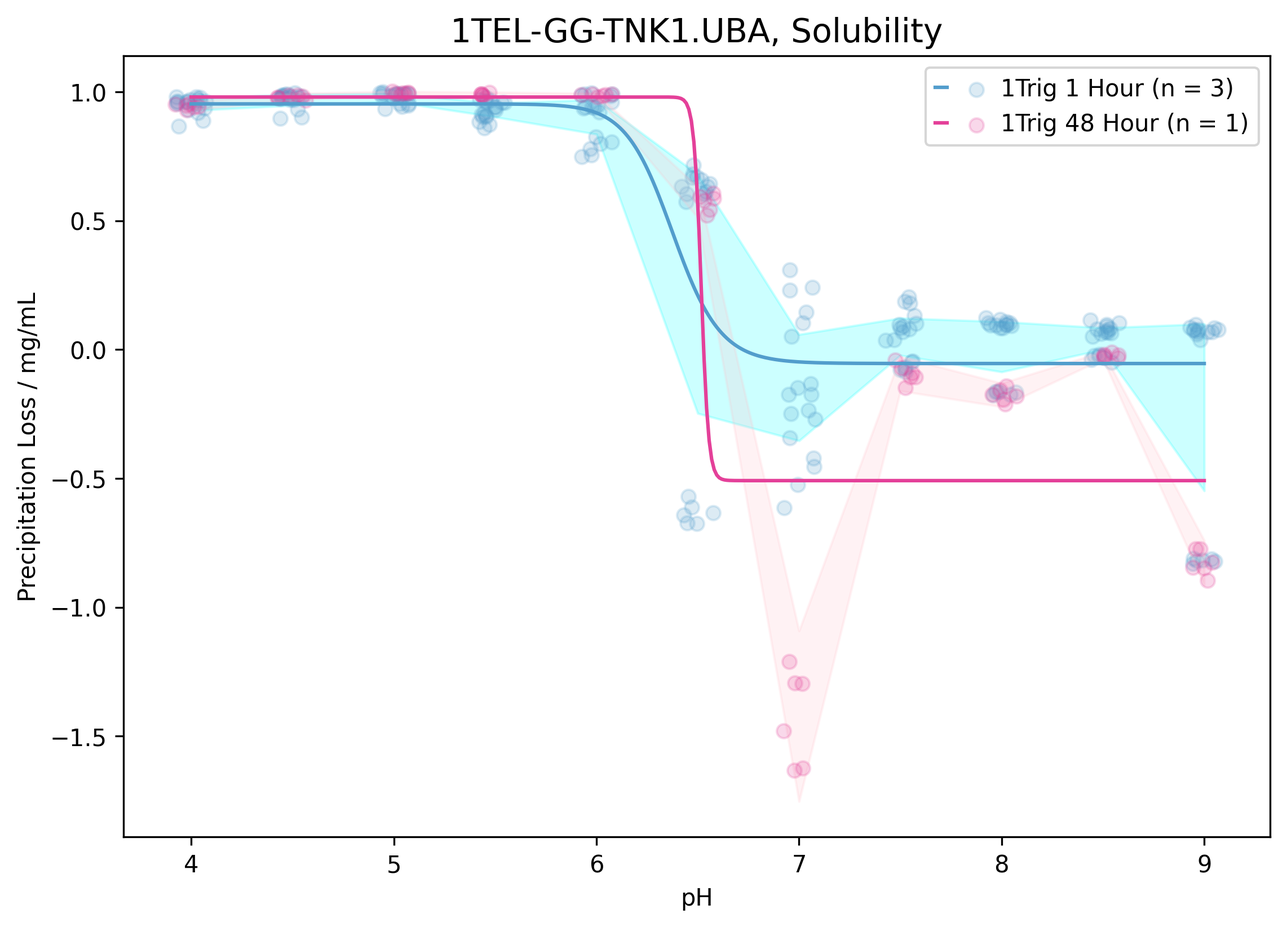
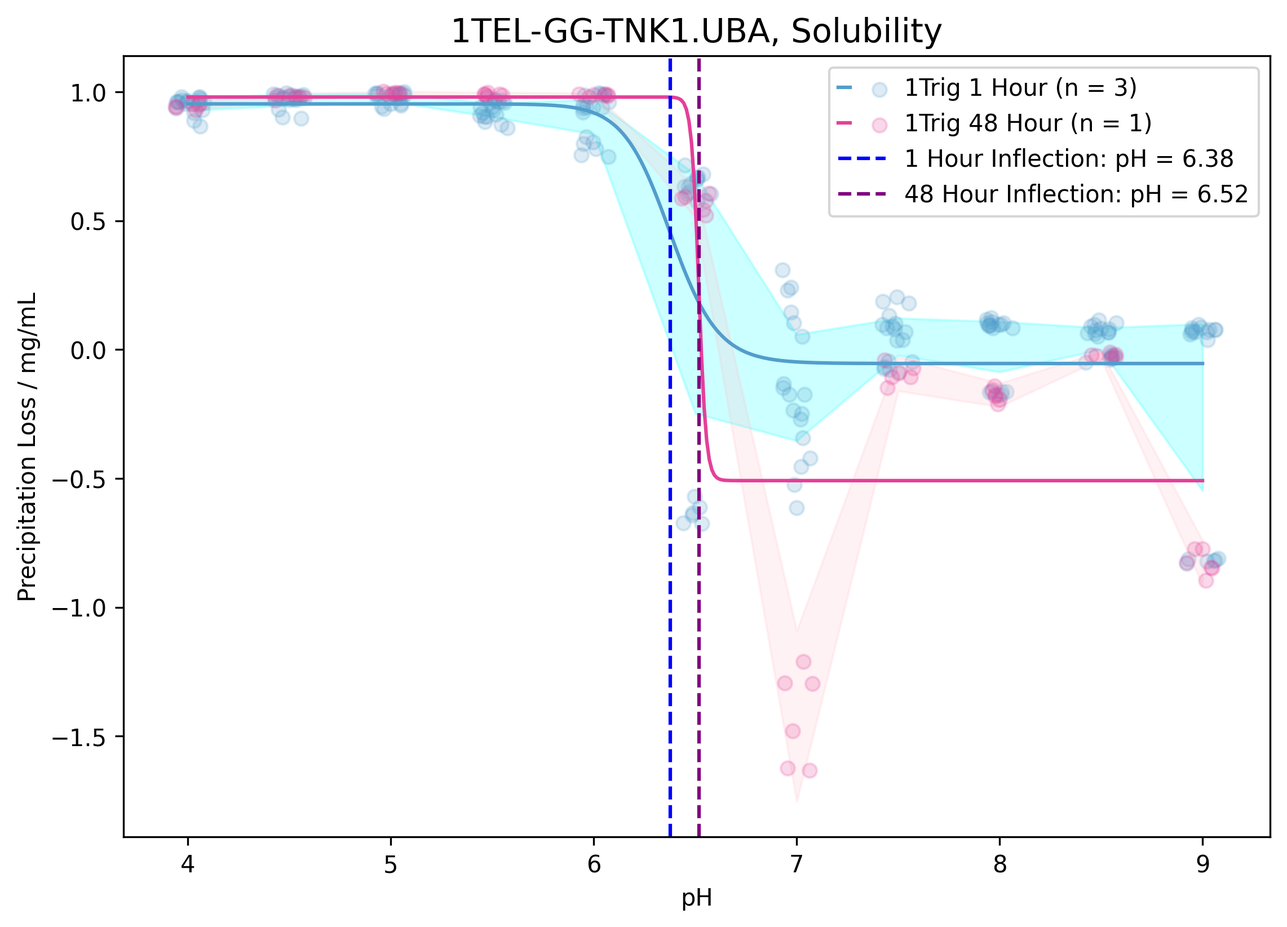
Made lots of changes such omitting some data for curve fitting, plotting asterisks near omitted data, including inflection point lines for every graph, and othe minor asthetic changes.

diff --git a/process.py b/process.py
@@ -25,7 +25,6 @@ with open('data.csv',newline="") as csvfile:
             protein_dict[protein_construct] = {}
         if row['Date']+"_"+row['Stock Concentration mg/mL']+'_mg/mL_pH_'+row['pH'] not in protein_dict[protein_construct]:
             protein_dict[protein_construct][row['Date']+"_"+row['Stock Concentration mg/mL']+'_mg/mL_pH_'+row['pH']] = {'A400':[],'A280_1hr':[],'A280_48-72hr':[]}
-
         if row['A400']!="":
             if '*' in row['A400']:
                 protein_dict[protein_construct][row['Date']+"_"+row['Stock Concentration mg/mL']+'_mg/mL_pH_'+row['pH']]['A400'].append((row['A400']))
@@ -94,19 +93,24 @@ def format_legend_label(construct, test_name, protein_constructs, tests, n):
     # Case 1: 1Trig vs 2Trig
     if len(protein_constructs) == 2 and len(tests) == 1:
         if is_vwa and any("Gravity" in c for c in protein_constructs):
-            label = "Gravity" if is_gravity else "ÄKTA"
+            base_label = "Gravity" if is_gravity else "ÄKTA"
+
+            if test_name == "A280_1hr":
+                label = f"{base_label} 1 Hour"
+            elif test_name == "A280_48-72hr":
+                label = f"{base_label} 48 Hour"
+            else:
+                label = base_label
+
         else:
             label = "2Trig" if is_2trig else "1Trig"
-
     # Case 2: 1 hr vs 48 hr
     elif len(protein_constructs) == 1 and has_1hr and has_48hr:
         trig_label = "2Trig" if is_2trig else "1Trig"
         time_label = "1 Hour" if test_name == "A280_1hr" else "48 Hour"
         label = f"{trig_label} {time_label}"
-
     else:
         label = construct
-
     return f"{label} (n = {n})"
 
 def statisticize(proteins_and_tests:list,plot_singly=False,plot=False,tailored=False,pool=False):
@@ -117,7 +121,7 @@ def statisticize(proteins_and_tests:list,plot_singly=False,plot=False,tailored=F
     'tests' are the types of tests you performed, referred to by the variable being measured, or the column name in the csv. Ie.: 'A400', 'A280_1hr'    
     """
     #The first half of this function is just a filter pulling applicable data from the protein_dict dictionary.
-    data = {'protein construct':[],'date':[],'pH':[],'test':[],'data':[],'tailored_data':[]}
+    data = {'protein construct':[],'date':[],'pH':[],'test':[],'data':[],'tailored_data':[], 'is_starred':[]}
     protein_constructs = []
     tests = []
     for protein_construct,test in proteins_and_tests:
@@ -152,19 +156,21 @@ def statisticize(proteins_and_tests:list,plot_singly=False,plot=False,tailored=F
                     if type(replicate)==float:
                         if test in ['A280_1hr','A280_48-72hr']:
                             #For precipitation assays, find the amount of protein left as a percentage.
-                            data['tailored_data'].append((theoretical_max_concentration-replicate)/theoretical_max_concentration)
-                            data['data'].append((theoretical_max_concentration-replicate)/theoretical_max_concentration)
+                            value = (theoretical_max_concentration-replicate)/theoretical_max_concentration
                         else:
-                            data['tailored_data'].append(replicate/theoretical_max_concentration)
-                            data['data'].append(replicate/theoretical_max_concentration)
+                            value = replicate/theoretical_max_concentration
+                        data['tailored_data'].append(value)
+                        data['data'].append(value)
+                        data['is_starred'].append(False)
                     else:
                         if test in ['A280_1hr','A280_48-72hr']:
                             #For precipitation assays, find the amount of protein left as a percentage.
-                            data['data'].append((theoretical_max_concentration-float(replicate.strip("*")))/theoretical_max_concentration)
-                            data['tailored_data'].append('')
+                            value = (theoretical_max_concentration-float(replicate.strip("*")))/theoretical_max_concentration
                         else:
-                            data['data'].append(float(replicate.strip("*"))/theoretical_max_concentration)
-                            data['tailored_data'].append('')
+                            value = float(replicate.strip("*"))/theoretical_max_concentration
+                        data['data'].append(value)
+                        data['tailored_data'].append(value)   # keep numeric
+                        data['is_starred'].append(True)
 
     #--------------------Now that the main filtering is done, it's time to make confidence intervals and fit curves for each set of construct:pH values---------------#
 
@@ -188,11 +194,14 @@ def statisticize(proteins_and_tests:list,plot_singly=False,plot=False,tailored=F
         measurement = data[data_quality][replicate]
         if construct_key not in constructs_by_pH_by_date:
             constructs_by_pH_by_date[construct_key] = {}
+        is_starred = data['is_starred'][replicate]
         if pH not in constructs_by_pH_by_date[construct_key]:
-            constructs_by_pH_by_date[construct_key][pH] = {"dates": {}}
+            constructs_by_pH_by_date[construct_key][pH] = {"dates": {}, "dates_starred": {}}
         if date not in constructs_by_pH_by_date[construct_key][pH]["dates"]:
             constructs_by_pH_by_date[construct_key][pH]["dates"][date] = []
+            constructs_by_pH_by_date[construct_key][pH]["dates_starred"][date] = []
         constructs_by_pH_by_date[construct_key][pH]["dates"][date].append(measurement)
+        constructs_by_pH_by_date[construct_key][pH]["dates_starred"][date].append(is_starred)
 
     biological_n_by_construct = {}
 
@@ -208,21 +217,27 @@ def statisticize(proteins_and_tests:list,plot_singly=False,plot=False,tailored=F
     for construct in constructs_by_pH_by_date:
         for pH in constructs_by_pH_by_date[construct]:
             # Eli Note: The line below gives back a list of lists. Each outer list is a biological replicate and each inner list includes the measurements from the nanodrop for that biological replicate.
-            pH_replicates = list(constructs_by_pH_by_date[construct][pH]["dates"].values())
+            pH_dates = constructs_by_pH_by_date[construct][pH]["dates"]
+            pH_starred = constructs_by_pH_by_date[construct][pH]["dates_starred"]
             if pool:
                 weighted_variances = 0.0
                 pooled_df = 0
             all_drops_at_current_pH = []
-            for drops in pH_replicates:
-                print(f'drops:{drops}')
-                #Turn all the drop replicates into numpy floats.
+            for date_key in pH_dates:
+                drops = pH_dates[date_key]
+                star_flags = pH_starred[date_key]
+                if tailored:
+                    drops = [d for d, s in zip(drops, star_flags) if not s]
+                if len(drops) == 0:
+                    continue
                 drops = np.array(drops, dtype=float)
-                #Put all the drop replicates into the combined measurements list
                 all_drops_at_current_pH.extend(drops)
                 if pool:
                     sd_of_drops = np.std(drops, ddof=1)
-                    weighted_variances += ((len(drops) - 1)*(sd_of_drops**2)) 
+                    weighted_variances += ((len(drops) - 1)*(sd_of_drops**2))
                     pooled_df += (len(drops) - 1)
+            if len(all_drops_at_current_pH) == 0:
+                continue
             N_replicates = len(all_drops_at_current_pH)
             if pool:
                 pooled_sd = np.sqrt(weighted_variances/pooled_df)
@@ -306,9 +321,12 @@ def statisticize(proteins_and_tests:list,plot_singly=False,plot=False,tailored=F
             return color_map
         color_map = change_colors()
 
-        inflection_points_1trig = []
-        inflection_points_2trig = []
-        inflection_points_Gravity = []
+        inflection_points_1trig_1hr = []
+        inflection_points_1trig_48hr = []
+        inflection_points_2trig_1hr = []
+        inflection_points_2trig_48hr = []
+        inflection_points_gravity = []
+        any_starred_points = False
 
         for construct_key in constructs_by_pH_by_date:
             construct, test_name = construct_key
@@ -318,38 +336,45 @@ def statisticize(proteins_and_tests:list,plot_singly=False,plot=False,tailored=F
             ci_upper_bounds = []
             construct_pHs =[]
             construct_data = []
+            construct_starred = []
             # sort pHs numerically
             sorted_pHs = sorted(constructs_by_pH_by_date[construct_key].keys(), key=float)
             for pH in sorted_pHs:
                 pH_entry = constructs_by_pH_by_date[construct_key][pH]
+                # Always keep raw points for plotting
+                for date, measurements in pH_entry["dates"].items():
+                    star_flags = pH_entry["dates_starred"][date]
+                    for measurement, is_starred in zip(measurements, star_flags):
+                        construct_pHs.append(float(pH))
+                        construct_data.append(measurement)
+                        construct_starred.append(is_starred)
+                # Only use pHs with computed statistics for fitting / CI bands
+                if "mean" not in pH_entry:
+                    continue
                 pH_values.append(float(pH))
                 means.append(pH_entry["mean"])
                 ci_lower_bounds.append(pH_entry["CI_lower"])
                 ci_upper_bounds.append(pH_entry["CI_upper"])
-                # raw measurements for scatter plotting
-                for date, measurements in pH_entry["dates"].items():
-                    for measurement in measurements:
-                        construct_pHs.append(float(pH))
-                        construct_data.append(measurement)
 
             try:
                 pH_linspace = np.linspace(min(pH_values),max(pH_values),400)
                 initial_guesses = [max(means),-4,5.5,min(means)]
                 #The returned values from the curve_fit match the order of those passed in as initial guesses, namely: [max,slope,inflection point,min]
                 best_fit_parameters,covariance_matrix = curve_fit(pH_to_absorbance_model_4pl,pH_values,means,p0=initial_guesses)
-
-                if "2Trig" in construct and best_fit_parameters[2] > 4.0:
-                    inflection_points_2trig.append(best_fit_parameters[2])
-                elif "2Trig" in construct and best_fit_parameters[2] < 4.0:
-                    inflection_points_2trig.append(float(4.0))
-                elif not "2Trig" in construct and "Gravity" not in construct and best_fit_parameters[2] < 4.0:
-                    inflection_points_1trig.append(float(4.0))
-                elif "Gravity" in construct and best_fit_parameters[2] > 4:
-                    inflection_points_Gravity.append(best_fit_parameters[2])
-                elif "Gravity" in construct and best_fit_parameters[2] < 4:
-                    inflection_points_Gravity.append(float(4.0))
+                print(best_fit_parameters)
+                inflection_value = best_fit_parameters[2] if best_fit_parameters[2] >= 4.0 else 4.0
+                if "Gravity" in construct:
+                    inflection_points_gravity.append(inflection_value)
+                elif "2Trig" in construct:
+                    if test_name == "A280_48-72hr":
+                        inflection_points_2trig_48hr.append(inflection_value)
+                    else:
+                        inflection_points_2trig_1hr.append(inflection_value)
                 else:
-                    inflection_points_1trig.append(best_fit_parameters[2])
+                    if test_name == "A280_48-72hr":
+                        inflection_points_1trig_48hr.append(inflection_value)
+                    else:
+                        inflection_points_1trig_1hr.append(inflection_value)
 
                 ###-------------------------------###
                 #To plot the fitted curve:
@@ -382,6 +407,13 @@ def statisticize(proteins_and_tests:list,plot_singly=False,plot=False,tailored=F
                     scatter_handle = plt.scatter(jittered_pHs,construct_data,marker="^", color=color_map[construct_key], alpha=0.2)
                 else:
                     scatter_handle = plt.scatter(jittered_pHs,construct_data, color=color_map[construct_key], alpha=0.2)
+                # Plot asterisks for omitted (starred) data
+                starred_jittered_pHs = [x for x, s in zip(jittered_pHs, construct_starred) if s]
+                starred_data = [y for y, s in zip(construct_data, construct_starred) if s]
+                if len(starred_data) > 0:
+                    for x, y in zip(starred_jittered_pHs, starred_data):
+                        plt.annotate("*",(x, y),xytext=(0.005, 0.00000005),textcoords="offset points",ha="left",va="bottom",color="black",fontsize=11,fontweight="light",zorder=6)
+                    any_starred_points = True
 
                 # mean points with Bonferroni error bars
                 #plt.errorbar(x=pH_values,y=means, yerr=[np.array(means) - np.array(ci_lower_bounds), np.array(ci_upper_bounds) - np.array(means)], fmt='none', ecolor=color_map[construct], capsize=4, alpha=0.9)
@@ -394,7 +426,6 @@ def statisticize(proteins_and_tests:list,plot_singly=False,plot=False,tailored=F
                     if len(inflection_points_2trig)>0:
                         inflection_2 = plt.axvline(inflection_points_2trig[-1],color="red",linestyle="--")
                         handles_and_labels[inflection_2] = f"Inflection point: pH = {inflection_points_2trig[-1].round(2)}"
-                
                 legend_label = format_legend_label(construct,test_name,protein_constructs,tests,biological_n_by_construct[construct_key])
                 handles_and_labels[(line_handle, scatter_handle)] = legend_label
 
@@ -402,12 +433,16 @@ def statisticize(proteins_and_tests:list,plot_singly=False,plot=False,tailored=F
                 print(f'The curve fit for {construct} failed due to: {e}. Plotting points instead of fitted curve...')
                 construct_pHs = []
                 construct_data = []
+                construct_starred = []
                 sorted_pHs = sorted(constructs_by_pH_by_date[construct_key].keys(), key=float)
                 for pH in sorted_pHs:
-                    for date, measurements in constructs_by_pH_by_date[construct_key][pH]["dates"].items():
-                        for measurement in measurements:
+                    pH_entry = constructs_by_pH_by_date[construct_key][pH]
+                    for date, measurements in pH_entry["dates"].items():
+                        star_flags = pH_entry["dates_starred"][date]
+                        for measurement, is_starred in zip(measurements, star_flags):
                             construct_pHs.append(float(pH))
                             construct_data.append(measurement)
+                            construct_starred.append(is_starred)
                 if "Gravity" in construct:
                     plt.fill_between(pH_values, ci_lower_bounds, ci_upper_bounds, color='lime', alpha=0.20)
                 elif test_name == "A280_48-72hr" and "2Trig" not in construct:
@@ -426,6 +461,12 @@ def statisticize(proteins_and_tests:list,plot_singly=False,plot=False,tailored=F
                     scatter_handle = plt.scatter(jittered_pHs,construct_data,marker="^", color=color_map[construct_key], alpha=0.2)
                 else:
                     scatter_handle = plt.scatter(jittered_pHs,construct_data, color=color_map[construct_key], alpha=0.2)
+                starred_jittered_pHs = [x for x, s in zip(jittered_pHs, construct_starred) if s]
+                starred_data = [y for y, s in zip(construct_data, construct_starred) if s]
+                if len(starred_data) > 0:
+                    for x, y in zip(starred_jittered_pHs, starred_data):
+                        plt.annotate("*",(x, y),xytext=(0.005, 0.00000005),textcoords="offset points",ha="left",va="bottom",color="black",fontsize=11,fontweight="light",zorder=6)
+                    any_starred_points = True
                 legend_label = format_legend_label(construct,test_name,protein_constructs,tests,biological_n_by_construct[construct_key])
                 handles_and_labels[scatter_handle] = legend_label
 
@@ -447,39 +488,65 @@ def statisticize(proteins_and_tests:list,plot_singly=False,plot=False,tailored=F
                 handles_and_labels = {}
 
         if not plot_singly:
-            if not (len(protein_constructs) == 1 and ("A280_1hr" in tests and "A280_48-72hr" in tests)):
-                if len(inflection_points_1trig)>1:
-                    single_trigger_inflection_point = np.mean(inflection_points_1trig)
+            is_gravity_comparison = (len(protein_constructs) == 2 and len(tests) == 1 and any("Gravity" in construct for construct in protein_constructs))
+            is_time_comparison = (len(protein_constructs) == 1 and "A280_1hr" in tests and "A280_48-72hr" in tests)
+            if is_time_comparison:
+                if "2Trig" in protein_constructs[0]:
+                    if len(inflection_points_2trig_1hr) >= 1:
+                        inflection_1hr = plt.axvline(np.mean(inflection_points_2trig_1hr), color="darkorange", linestyle="--")
+                        handles_and_labels[inflection_1hr] = f"1 Hour Inflection: pH = {np.mean(inflection_points_2trig_1hr):.2f}"
+                    if len(inflection_points_2trig_48hr) >= 1:
+                        inflection_48hr = plt.axvline(np.mean(inflection_points_2trig_48hr), color="indigo", linestyle="--")
+                        handles_and_labels[inflection_48hr] = f"48 Hour Inflection: pH = {np.mean(inflection_points_2trig_48hr):.2f}"
+                else:
+                    if len(inflection_points_1trig_1hr) >= 1:
+                        inflection_1hr = plt.axvline(np.mean(inflection_points_1trig_1hr), color="blue", linestyle="--")
+                        handles_and_labels[inflection_1hr] = f"1 Hour Inflection: pH = {np.mean(inflection_points_1trig_1hr):.2f}"
+                    if len(inflection_points_1trig_48hr) >= 1:
+                        inflection_48hr = plt.axvline(np.mean(inflection_points_1trig_48hr), color="purple", linestyle="--")
+                        handles_and_labels[inflection_48hr] = f"48 Hour Inflection: pH = {np.mean(inflection_points_1trig_48hr):.2f}"
+            elif is_gravity_comparison:
+                # non-gravity line
+                if "A400" in tests:
+                    nongravity_points = inflection_points_1trig_1hr
+                    nongravity_color = "blue"
+                    nongravity_label = "ÄKTA Inflection"
+                elif "A280_48-72hr" in tests:
+                    nongravity_points = inflection_points_1trig_48hr
+                    nongravity_color = "purple"
+                    nongravity_label = "ÄKTA 48 Hour Inflection"
+                elif "A280_1hr" in tests:
+                    nongravity_points = inflection_points_1trig_1hr
+                    nongravity_color = "blue"
+                    nongravity_label = "ÄKTA 1 Hour Inflection"
+                if len(nongravity_points) >= 1:
+                    inflection_ng = plt.axvline(np.mean(nongravity_points), color=nongravity_color, linestyle="--")
+                    handles_and_labels[inflection_ng] = f"{nongravity_label}: pH = {np.mean(nongravity_points):.2f}"
+
+                if len(inflection_points_gravity) >= 1:
+                    inflection_g = plt.axvline(np.mean(inflection_points_gravity), color="green", linestyle="--")
+                    if "A400" in tests:
+                        handles_and_labels[inflection_g] = f"Gravity Inflection: pH = {np.mean(inflection_points_gravity):.2f}"
+                    elif "A280_48-72hr" in tests:
+                        handles_and_labels[inflection_g] = f"Gravity 48 Hour Inflection: pH = {np.mean(inflection_points_gravity):.2f}"
+                    elif "A280_1hr" in tests:
+                        handles_and_labels[inflection_g] = f"Gravity 1 Hour Inflection: pH = {np.mean(inflection_points_gravity):.2f}"
+            else:
+                # standard 1Trig vs 2Trig comparison
+                if len(inflection_points_1trig_1hr) >= 1:
                     if "A280_48-72hr" in tests:
-                        inflection_color = 'purple'
+                        color_1trig = "purple"
                     else:
-                        inflection_color = 'blue' 
-                    inflection_1 = plt.axvline(single_trigger_inflection_point,color=inflection_color,linestyle="--")
-                    handles_and_labels[inflection_1] = f"Inflection point: pH ={single_trigger_inflection_point:.2f}"
-                elif len(inflection_points_1trig)==1:
+                        color_1trig = "blue"
+                    inflection_1 = plt.axvline(np.mean(inflection_points_1trig_1hr), color=color_1trig, linestyle="--")
+                    handles_and_labels[inflection_1] = f"1Trig Inflection: pH = {np.mean(inflection_points_1trig_1hr):.2f}"
+                if len(inflection_points_2trig_1hr) >= 1:
                     if "A280_48-72hr" in tests:
-                        inflection_color = "purple"
+                        color_2trig = "indigo"
                     else:
-                        inflection_color = "blue"
-                    inflection_1 = plt.axvline(inflection_points_1trig[0],color=inflection_color,linestyle="--")
-                    handles_and_labels[inflection_1] = f"Inflection point: pH = {np.float64(inflection_points_1trig[0]):.2f}"
-
-                if len(inflection_points_Gravity) > 1:
-                    gravity_inflection_point = np.mean(inflection_points_Gravity)
-                    inflection_g = plt.axvline(gravity_inflection_point, color='green', linestyle='--')
-                    handles_and_labels[inflection_g] = f"Inflection point: pH = {gravity_inflection_point:.2f}"
-                elif len(inflection_points_Gravity) == 1:
-                    inflection_g = plt.axvline(inflection_points_Gravity[0], color="green", linestyle="--")
-                    handles_and_labels[inflection_g] = f"Inflection point: pH = {np.float64(inflection_points_Gravity[0]):.2f}"
-
-                if len(inflection_points_2trig)>1:
-                    double_trigger_inflection_point = np.mean(inflection_points_2trig)
-                    inflection_2 = plt.axvline(double_trigger_inflection_point,color="red",linestyle="--")
-                    handles_and_labels[inflection_2] = f"Inflection point: ph = {double_trigger_inflection_point:.2f}"
-                elif len(inflection_points_2trig)==1:
-                    inflection_2 = plt.axvline(inflection_points_2trig[0],color='red',linestyle="--")
-                    handles_and_labels[inflection_2] = f"Inflection point: pH = {np.float64(inflection_points_2trig[0]):.2f}"        
-
+                        color_2trig = "red"
+                    inflection_2 = plt.axvline(np.mean(inflection_points_2trig_1hr), color=color_2trig, linestyle="--")
+                    handles_and_labels[inflection_2] = f"2Trig Inflection: pH = {np.mean(inflection_points_2trig_1hr):.2f}" 
             if "A400" == tests[0]:
                 y_axis = 'Absorbance'
                 assay = 'Turbidity'
@@ -503,7 +570,10 @@ def statisticize(proteins_and_tests:list,plot_singly=False,plot=False,tailored=F
                     plt.title(f"{protein_title}, {assay}", fontsize = 14)
                     plt.ylabel(y_axis)
                     plt.xlabel("pH")
-
+            # add asterisk legend entry LAST so it appears on bottom row
+            if any_starred_points:
+                    asterisk_handle = plt.scatter([], [], marker='$*$', color='black', s=40)
+                    handles_and_labels[asterisk_handle] = "Omitted from curve fitting"
             handles = [handle for handle in handles_and_labels]
             labels = [label for handle in handles_and_labels for label in [handles_and_labels[handle]]]
             is_pa = any("PA-TNK1.UBA" in construct for construct in protein_constructs)
@@ -513,9 +583,11 @@ def statisticize(proteins_and_tests:list,plot_singly=False,plot=False,tailored=F
             is_pa_1trig_vs_2trig_1hr = is_pa and len(protein_constructs) == 2 and is_1hr_only
             is_vwa_1trig_vs_2trig_1hr = is_vwa and len(protein_constructs) == 2 and is_1hr_only
             is_pa_1trig_1hr_vs_48hr = is_pa and len(protein_constructs) == 1 and "2Trig" not in protein_constructs[0] and is_1hr_vs_48hr
+            is_vwa_1trig_1hr_vs_48hr = (is_vwa and len(protein_constructs) == 1 and "2Trig" not in protein_constructs[0] and is_1hr_vs_48hr)
+            is_vwa_2trig_1hr_vs_48hr = (is_vwa and len(protein_constructs) == 1 and "2Trig" in protein_constructs[0] and is_1hr_vs_48hr)
             is_vwa_1hr_non_gravity_vs_gravity = (is_vwa and len(protein_constructs) == 2 and is_1hr_only and any("Gravity" in construct for construct in protein_constructs))
             
-            if (is_pa_1trig_vs_2trig_1hr or is_vwa_1trig_vs_2trig_1hr or is_pa_1trig_1hr_vs_48hr or is_vwa_1hr_non_gravity_vs_gravity):
+            if (is_pa_1trig_vs_2trig_1hr or is_vwa_1trig_vs_2trig_1hr or is_pa_1trig_1hr_vs_48hr or is_vwa_1trig_1hr_vs_48hr or is_vwa_2trig_1hr_vs_48hr or is_vwa_1hr_non_gravity_vs_gravity):
                 plt.legend(handles, labels,handler_map={tuple: HandlerTuple(ndivide=2, pad=1)},loc="lower right")
             else:
                 plt.legend(handles, labels,handler_map={tuple: HandlerTuple(ndivide=2, pad=1)},loc="upper right")
@@ -551,10 +623,10 @@ for protein_construct in protein_dict:
         #Single vs. Double-trigger A280_48-72hr
         #statisticize([(f'{protein_construct}','A280_48-72hr'),(f'2Trig-{protein_construct}','A280_48-72hr')],plot=True)
         #Single-trigger A280 1hr vs 48-72 hr
-        statisticize([(f'{protein_construct}','A280_1hr'),(f'{protein_construct}','A280_48-72hr')],plot=True)
+        statisticize([(f'{protein_construct}','A280_1hr'),(f'{protein_construct}','A280_48-72hr')],plot=True,tailored=True)
     elif '2Trig' in protein_construct:
         #Double-trigger A280 1hr vs 48-72 hr
-        statisticize([(f'{protein_construct}','A280_1hr'),(f'{protein_construct}','A280_48-72hr')],plot=True)
+        statisticize([(f'{protein_construct}','A280_1hr'),(f'{protein_construct}','A280_48-72hr')],plot=True,tailored=True)
 
 #Single trigger TV-vWA A400, A280 1 HR, A280 48-72 HR
 statisticize([('10xHis-1TEL-TV-vWA','A400'),('10xHis-1TEL-TV-vWA (Gravity)','A400')],plot=True)
